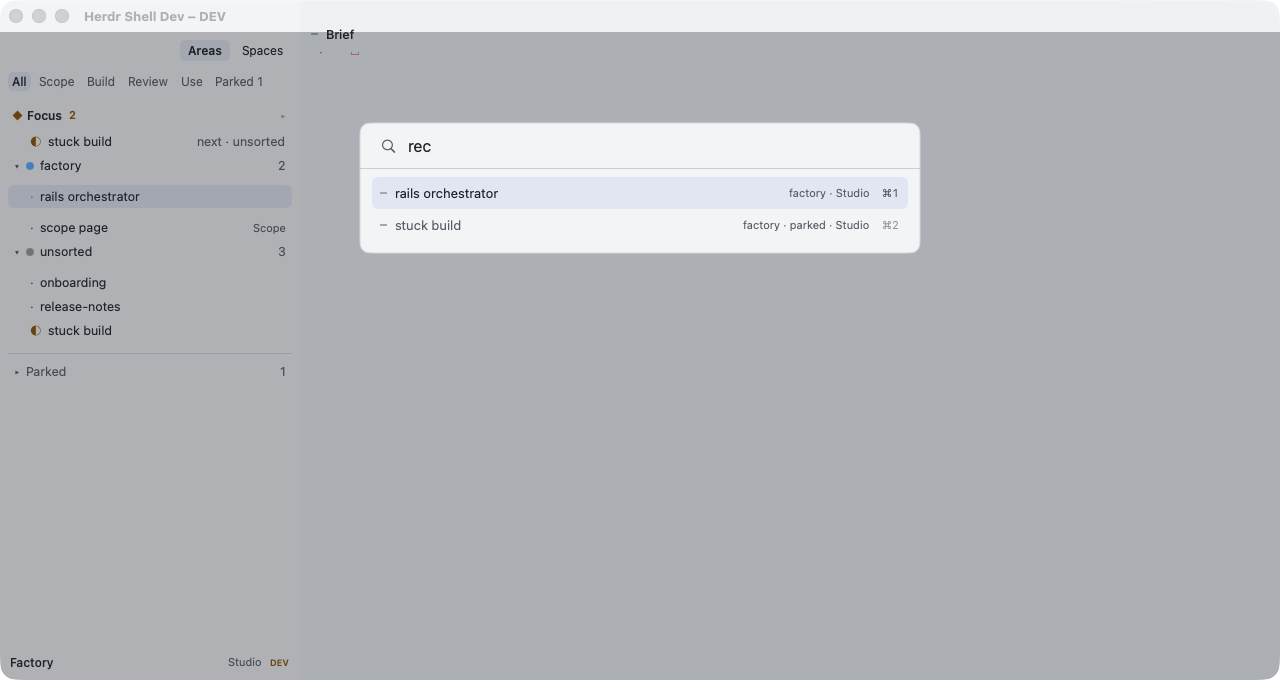
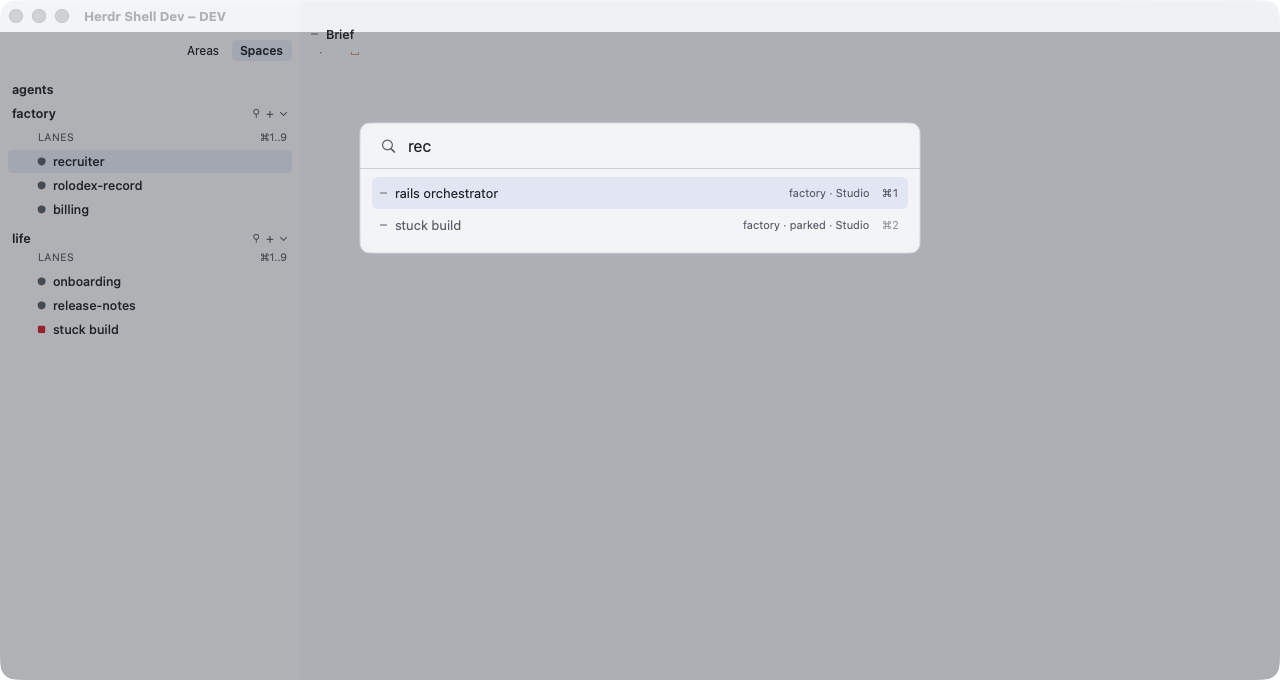
check_p30: switch to Areas itself now that Spaces is the default; P26-P30 evidence on the P33 head

diff --git a/macos/HerdrShell/scripts/check_p30.py b/macos/HerdrShell/scripts/check_p30.py
@@ -151,6 +151,10 @@ def main():
             os.environ["HERDR_SHELL_APP"] = str(binary)
             push_tree(str(FIX), guest(FIX))
         S.app("start")
+        # Spaces is the default since P33; these park/approve rows are asserted in the Areas view.
+        wait(lambda s: s.get("shell", {}).get("mode") in ("spaces", "areas"))
+        S.cmd({"cmd": "activate"})
+        S.cmd({"cmd": "click", "target": "mode", "label": "areas"})
         ready = wait(lambda s: any(l.get("tab") == tab for l in s.get("sidebar_lines", [])))
         check(f"{transport}: fixture sidebar loaded", ready is not None)
         if ready is None:
